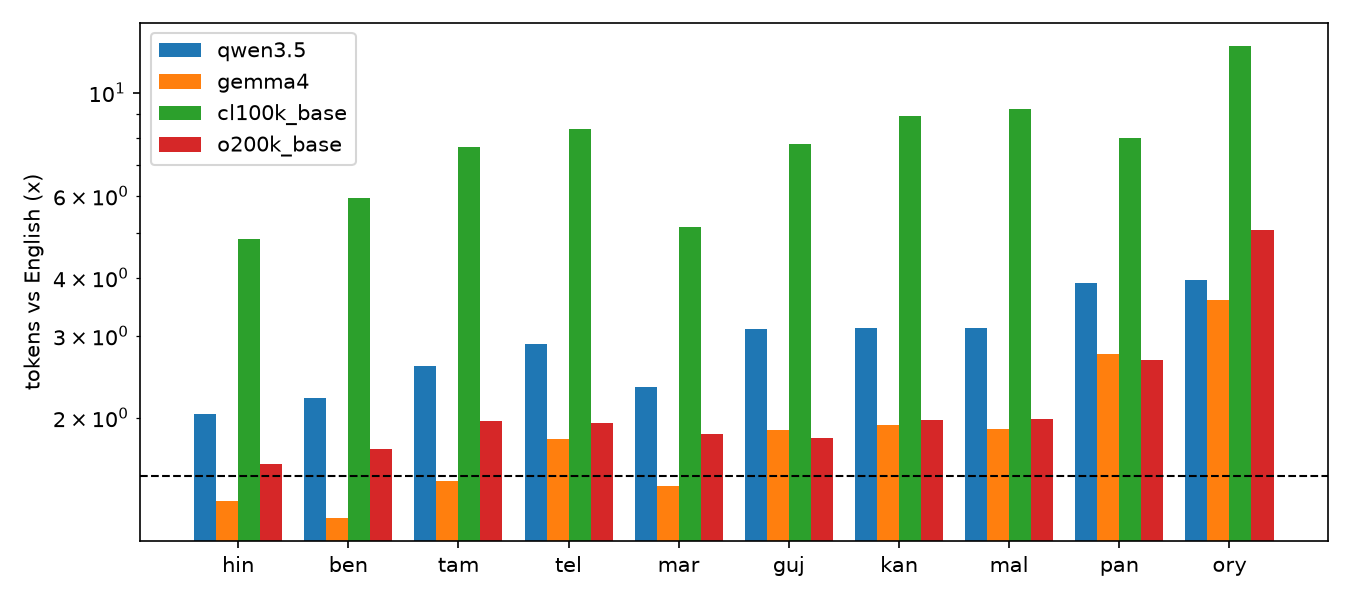
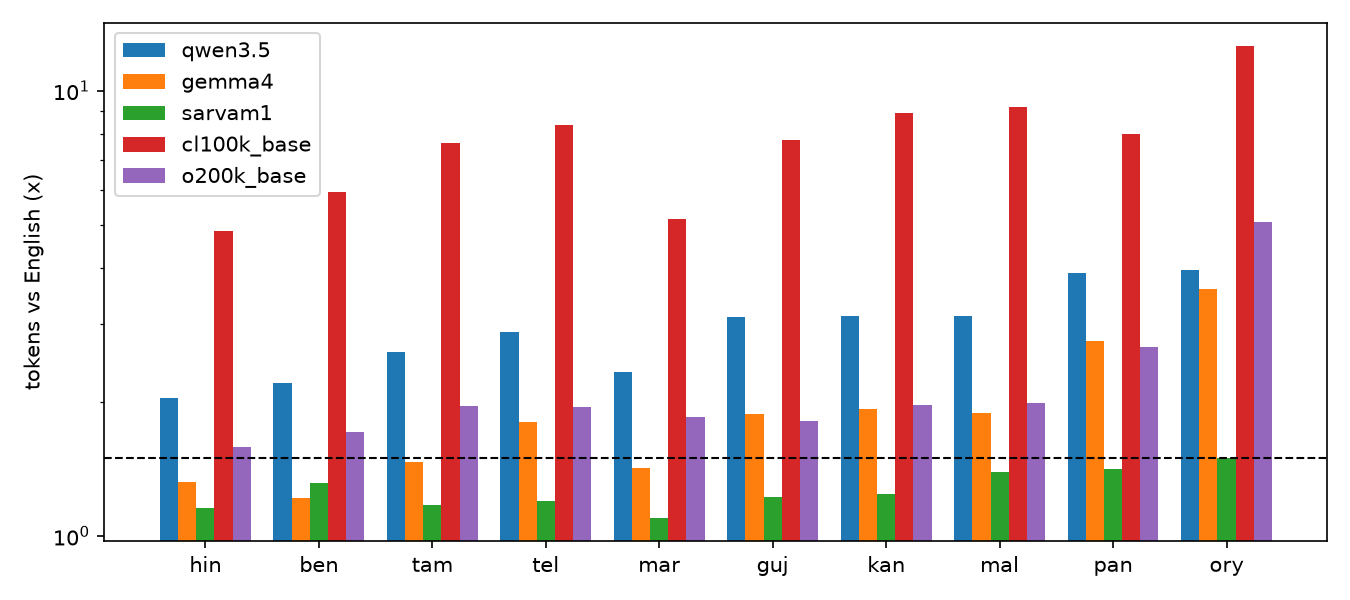
Add Sarvam-1 as third family; record deviation
Claude-Session: https://claude.ai/code/session_01Qwonswgah47LTFY6xH3TLf

diff --git a/src/m1_tokens.py b/src/m1_tokens.py
@@ -4,7 +4,8 @@ from transformers import AutoTokenizer
 from data import LANGS, load_sentences
 
 # One tokenizer per model family (target and draft share it), plus tiktoken references from the paper.
-HF_TOKENIZERS = {"qwen3.5": "Qwen/Qwen3.5-4B", "gemma4": "google/gemma-4-E2B-it"}
+HF_TOKENIZERS = {"qwen3.5": "Qwen/Qwen3.5-4B", "gemma4": "google/gemma-4-E2B-it",
+                 "sarvam1": "sarvamai/sarvam-1"}
 TIKTOKEN = ["cl100k_base", "o200k_base"]
 
 def get_encoders():

diff --git a/PREREGISTRATION.md b/PREREGISTRATION.md
@@ -60,3 +60,7 @@ No estimated numbers in place of measured ones; no dropping languages or models 
 
 ## Deviations
 (none yet)
+
+### 2026-11-14 — Llama 3.2 replaced by Sarvam-1
+Meta's gated access for Llama 3.2 was not obtainable (the request form asks for an affiliation we did not provide). We did not use ungated third-party mirrors of the weights, to avoid sidestepping the gate. Replacement third family: `sarvamai/sarvam-1` (2.5B, Indic-focused tokenizer, ungated; confirmed 2,525,087,744 params via HF metadata). No same-tokenizer small sibling is known, so for M4 Sarvam-1 is tested with prompt-lookup/n-gram drafting only (not draft-model speculation). This was decided after seeing M1 token counts for Qwen3.5/Gemma 4 but before any energy data; Sarvam-1's M1 numbers are reported whatever they are.
+Also: Gemma-4 target size (E2B vs E4B) still to be decided in M2 from T4 memory fit. M1 ratios use sum of tokens over the 200 sentences (per-sentence median ratio also stored in results/m1_token_counts.json).
